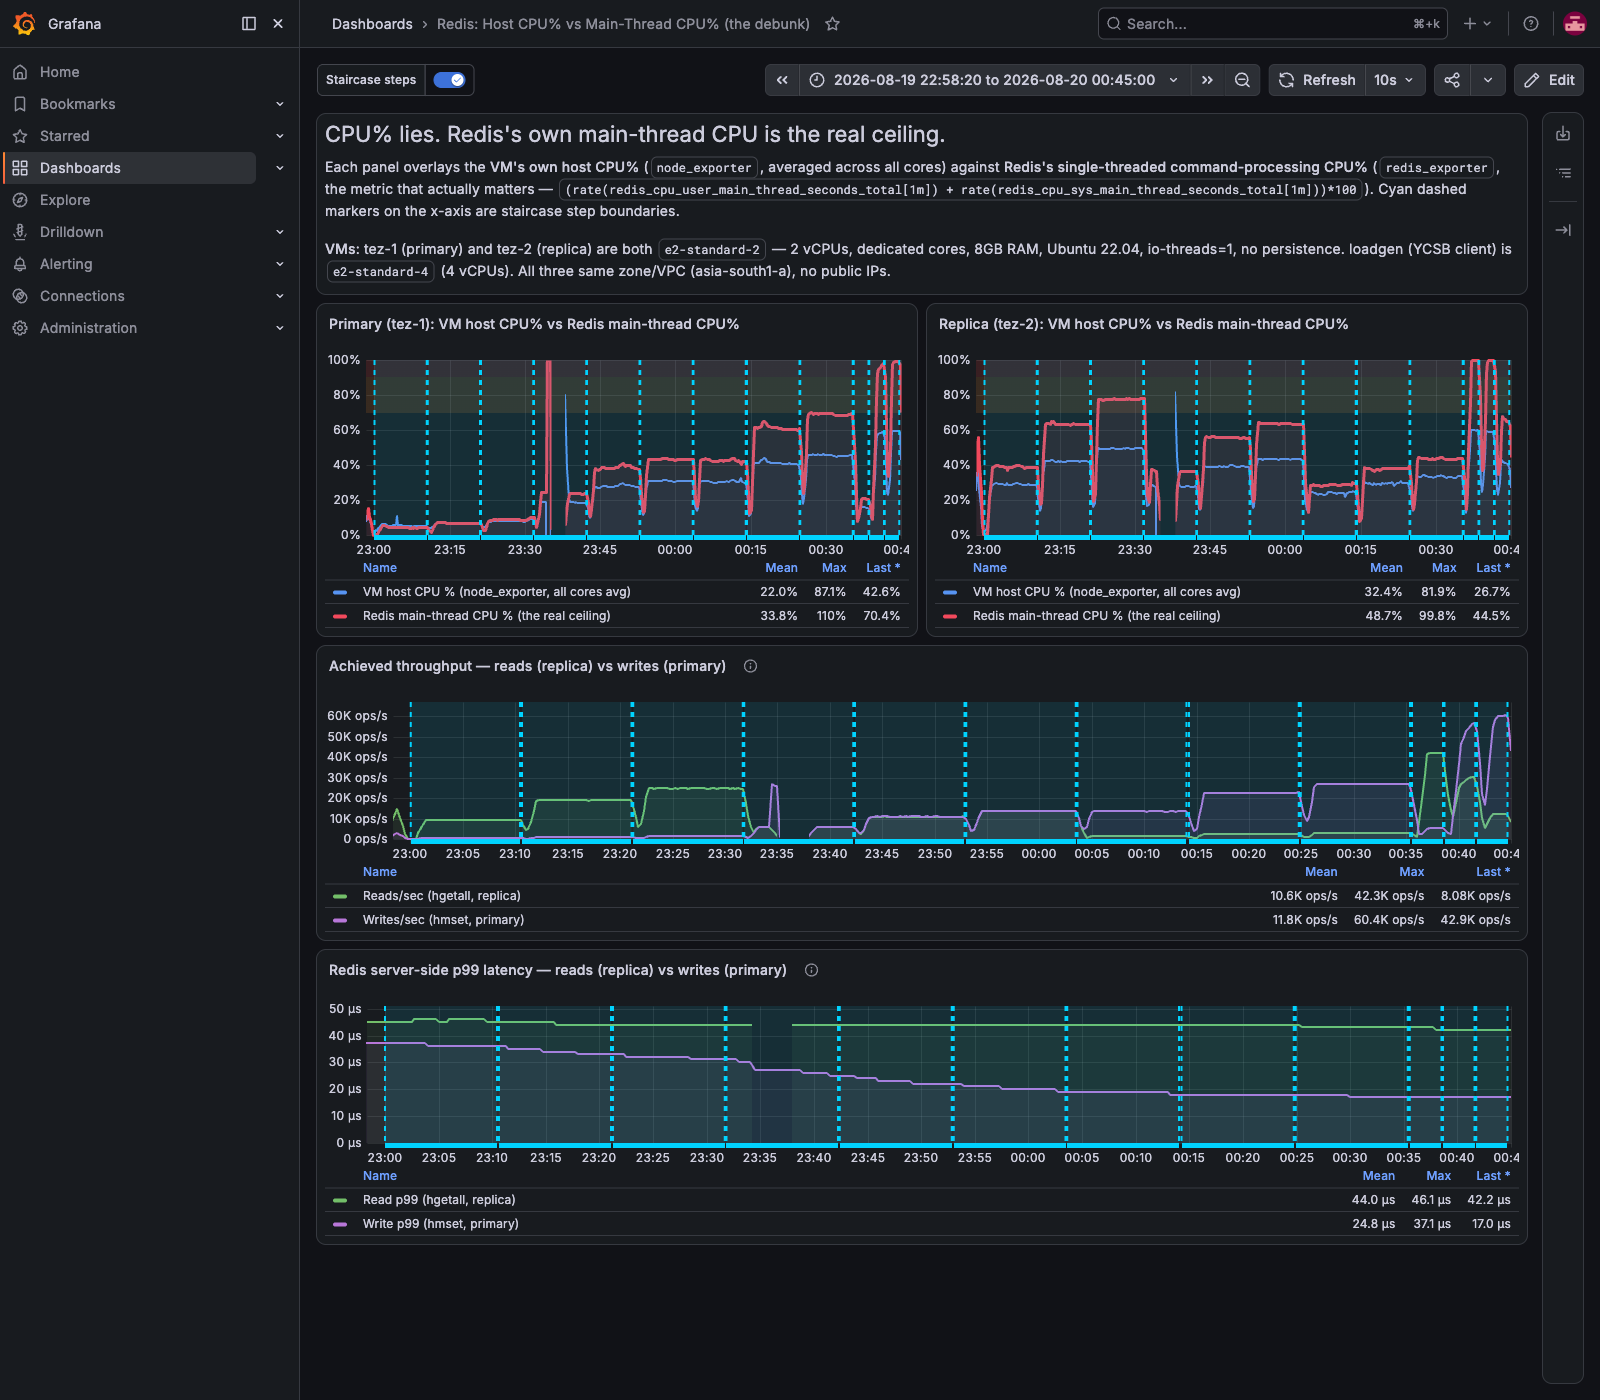
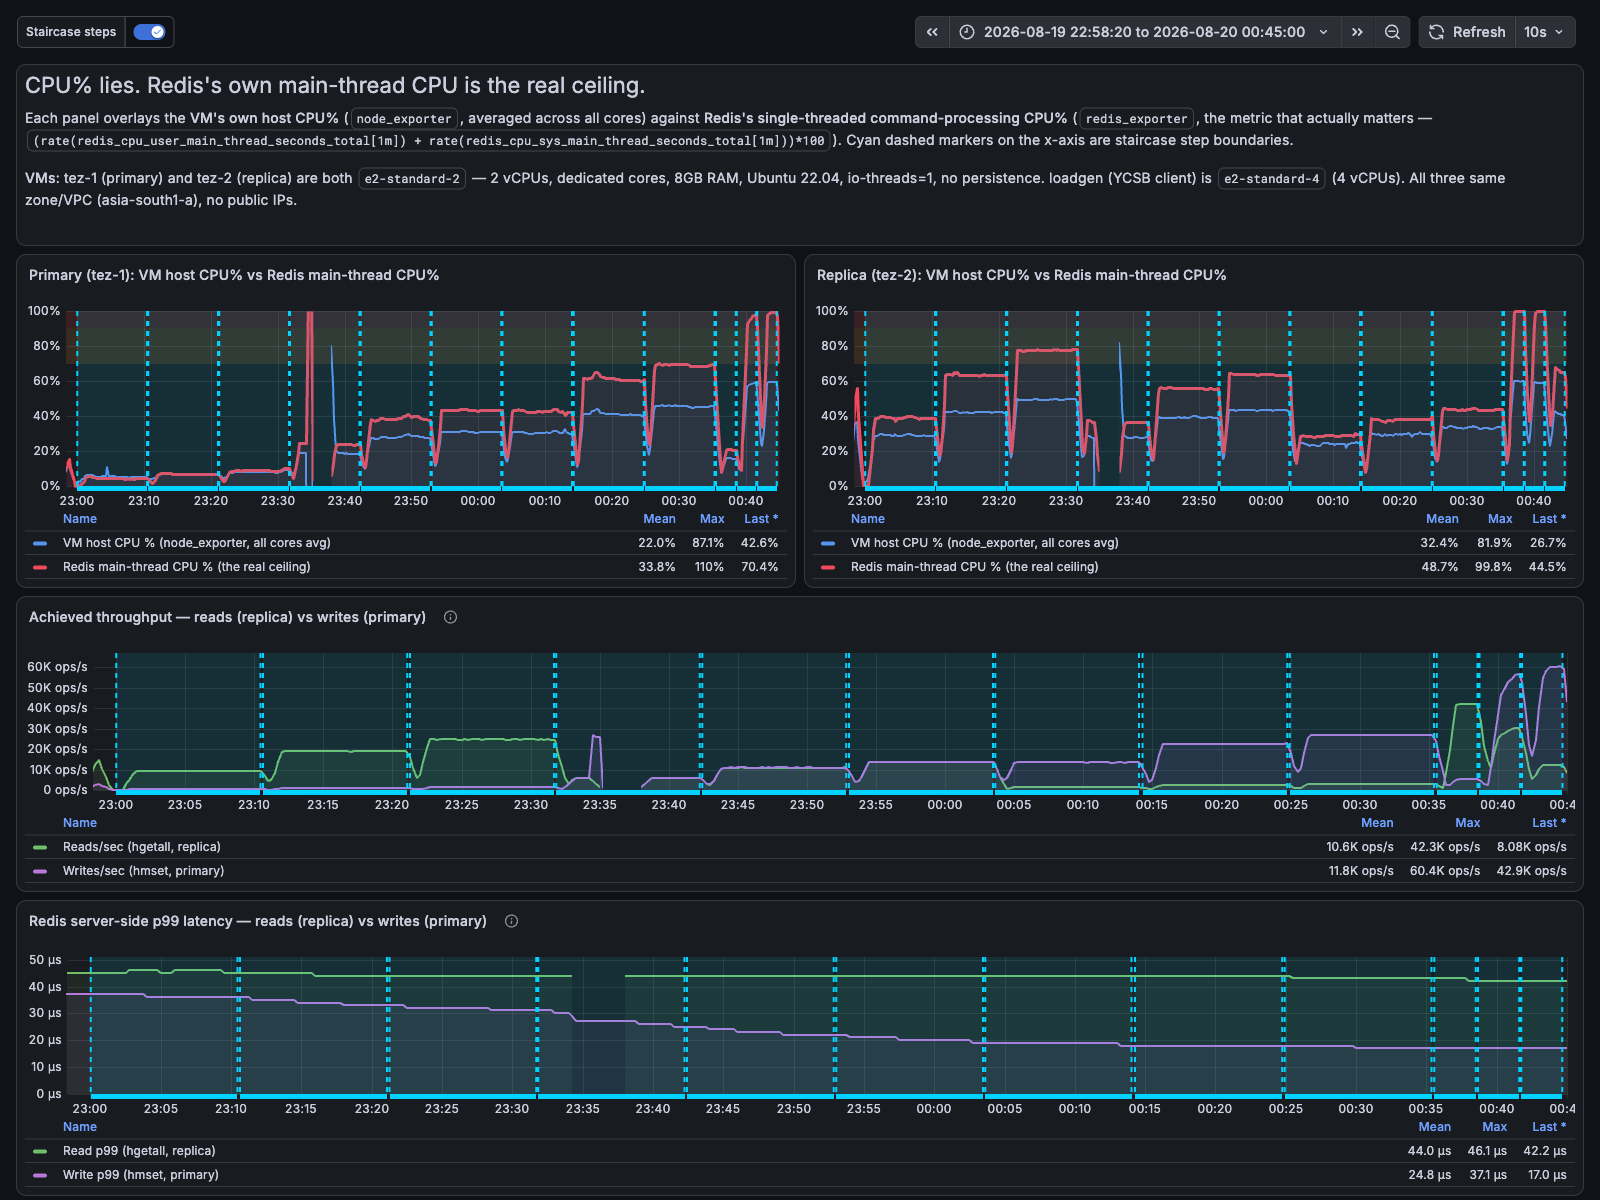
Restructure as one two-part exercise: standalone, then primary/replica
Previous version read as phase 1 with phase 2 findings appended below.
Restructured so both are framed as one planned exercise from the intro
onward: "Part 1: proving it on a standalone instance" and "Part 2: does
a real primary/replica pair change the story?", each with its own
setup/workload description, mirroring the density of the other. The
final scale-up/scale-out answer now synthesizes guidance from both
parts instead of treating the replica caveat as an afterthought.

Also: retook the dashboard screenshot in kiosk mode (was showing an
unnecessary sidebar) and added the client-vs-server latency comparison
as its own dark-themed chart (was missing from the post entirely,
previously only existed in the notes repo).

diff --git a/apps/blog/site/posts/10-redis-capacity-planning/redis-capacity-planning.md b/apps/blog/site/posts/10-redis-capacity-planning/redis-capacity-planning.md
@@ -5,7 +5,7 @@ title: >
 seo_title: Redis Capacity Planning - Why CPU% Lies and When to Actually Scale | Redis Performance Guide
 slug: redis-capacity-planning
 description: >
-  A production support question — "our self-managed Redis was at 50% CPU on a 4-core box, but latencies were already climbing, how do we know when to scale?" — turned into a real benchmark investigation. Here's the metric that actually matters, the thresholds to alert on, and when to scale up vs. scale out.
+  A production support question — "our self-managed Redis was at 50% CPU on a 4-core box, but latencies were already climbing, how do we know when to scale?" — turned into a real benchmark investigation, on both a standalone instance and a real primary/replica pair. Here's the metric that actually matters, the thresholds to alert on, and when to scale up vs. scale out.
 category: productivity
 tags: [redis, capacity-planning, performance, devops, sre, monitoring, prometheus, engineering, software-engineering, databases]
 site: blogsite
@@ -25,8 +25,12 @@ me: **how do you actually know, ahead of time, when a Redis instance
 needs to scale — and whether "scale" means a bigger box or more of
 them?**
 
-I didn't have a confident answer. So I built a Redis instance, hammered
-it with real traffic until it genuinely broke, and found out.
+I didn't have a confident answer. So I built a benchmark rig and hammered
+it with real traffic until it genuinely broke — twice, deliberately.
+First a standalone instance, to isolate the core mechanism without extra
+variables. Then a real primary/replica pair, because that's how almost
+everyone actually runs Redis in production, and I wanted to know whether
+the same numbers still hold once a replica is in the picture.
 
 ## The 50% CPU number was never the right number
 
@@ -49,9 +53,10 @@ processes your commands is out of room.**
 This is the debunk: **CPU% on the host is the wrong metric for Redis
 capacity, full stop.** You need CPU as a fraction of *one core*,
 specifically the core Redis's command loop runs on. Everything else in
-this post is what happens once you start watching the right number.
+this post is what happens once you start watching the right number — on
+a standalone instance first, then on a primary/replica pair.
 
-## Proving it, not just asserting it
+## Part 1: proving it on a standalone instance
 
 I didn't want to write "trust me, watch main-thread CPU" without
 actually watching it happen. So I built a small benchmark rig — a
@@ -122,9 +127,64 @@ read-heavy, missing the warning threshold is a much bigger deal than if
 it's write-heavy — worth knowing which kind of traffic you're actually
 running before you decide how much margin to leave yourself.
 
+## Part 2: does a real primary/replica pair change the story?
+
+A standalone instance is the clean way to prove a mechanism, but it's
+not how most people actually run Redis — there's usually a primary
+taking writes and one or more replicas serving reads, so the primary
+stays free. So I rebuilt the rig as a real primary/replica pair (same
+hardware class as Part 1, dedicated 2-vCPU cores on both sides — a
+shared-core instance size caused enough host-placement noise on its own
+to be a confound, worth bumping past before trusting any of the numbers
+below) and ran the same three traffic shapes again, this time with reads
+routed to the replica and writes to the primary — the actual read/write
+split most people configure — each step held for ten minutes for
+stable readings.
+
+### The finding: a replica's CPU isn't just its own read traffic
+
+A replica's main-thread CPU is doing two jobs at once — serving the
+reads you send it, *and* continuously applying the stream of writes
+replicated from the primary — and the second job doesn't show up
+anywhere in your read-traffic numbers. Using the read-heavy staircase to
+work out roughly how much CPU a given read volume alone should cost, the
+write-dominant staircase tells a different story:
+
+| Replica's own read load | CPU predicted from reads alone | CPU actually observed | Writes being replicated to it |
+|---|---|---|---|
+| 1,500 reads/sec | ~6.5% | **40.5%** | 13,500/sec |
+| 2,500 reads/sec | ~11% | **38.9%** | 22,500/sec |
+| 3,000 reads/sec | ~13% | **45.5%** | 27,000/sec |
+
+The replica's CPU sits **~30 percentage points above** what its own read
+traffic would predict, every time — and it tracks the volume of writes
+being replicated to it, not the reads it's actually serving. Here's the
+full picture, host CPU% against Redis's own main-thread CPU% for both
+sides, plus achieved throughput and server-side latency, across the
+whole staircase:
+
+![Grafana dashboard comparing VM host CPU% against Redis main-thread CPU% for both the primary and replica, alongside achieved read/write throughput and server-side latency, across a full staircase test](./images/06-replica-cpu-debunk.png)
+
+### Overload and latency: the same two findings, more pronounced
+
+Pushed to 4x overload, the split topology behaved exactly like Part 1 —
+**no failures**, just queueing, on both the primary and the replica.
+And the latency trap was, if anything, worse: Redis's own server-side
+p99 for reads stayed inside **42-46 microseconds across the entire
+staircase, including 4x overload** — under 10% variation start to
+finish — while what the client actually experienced told a completely
+different story:
+
+![Client-observed p99 latency climbing from 663 microseconds to over 8,000 microseconds under overload, while Redis's own server-side p99 latency stays flat between 17 and 46 microseconds throughout — both plotted on a log scale for reads and writes separately](./images/07-client-vs-server-latency.png)
+
+Client-observed p99 for reads went from 663µs at the lightest step to
+**8,503µs under 4x overload** — a 13x increase that Redis's own metrics
+never showed even a hint of.
+
 ## So: when do you scale up, and when do you scale out?
 
-This is the part that actually answers the original question.
+This is the part that actually answers the original question — for
+both a standalone instance and a primary/replica pair.
 
 **Watch this metric:**
 ```
@@ -132,8 +192,17 @@ rate(redis_cpu_user_main_thread_seconds_total[1m])
   + rate(redis_cpu_sys_main_thread_seconds_total[1m])
 ```
 — a fraction of *one* core, sourced from `redis_exporter`. Alert at
-**70%** (start planning) and **90%** (act now). Not host CPU%. Not
-Redis's own latency numbers.
+**70%** (start planning) and **90%** (act now) on a standalone instance.
+Not host CPU%. Not Redis's own latency numbers.
+
+**If you're running a primary/replica pair, don't reuse those same
+thresholds on the replica.** Watch primary and replica CPU as two
+separate series, and watch the primary's write rate alongside replica
+CPU — a replica CPU spike with flat read traffic means the write rate
+went up, not the read rate. And when sizing read replicas for capacity,
+budget for the replication-apply tax, not just the read QPS you expect
+to send them — a replica never gives you a full standalone instance's
+worth of read headroom.
 
 **When the alert fires, don't reach for a bigger box by reflex.** Since
 the bottleneck is one thread, adding vCPUs to the same instance does
@@ -146,7 +215,8 @@ threading (which offloads network handling, not command execution).
 The real fix, almost always, is **scaling out**:
 - **Read-heavy traffic → add read replicas.** Reads are the expensive
   operation; offloading them frees the primary's one core to focus on
-  writes.
+  writes — just budget for the replication-apply tax above, not the raw
+  read QPS alone.
 - **Write-heavy or mixed traffic → shard (Redis Cluster).** Replicas
   don't relieve write load; splitting the keyspace across multiple
   single-core shards does.
@@ -160,33 +230,10 @@ That's the answer I wish I'd had in that support thread: the CPU number
 everyone was staring at wasn't lying about the box — it was answering a
 question nobody was actually asking.
 
-## One more wrinkle: a replica's CPU isn't just its own read traffic
-
-Most real Redis deployments aren't a single instance — they're a primary
-with one or more replicas, reads split off so the primary can focus on
-writes. So I ran the whole staircase again against a real primary/replica
-pair to check: does the same CPU number mean the same thing on a replica?
-
-No. A replica's main-thread CPU is doing two jobs at once — serving the
-reads you send it, *and* continuously applying the stream of writes
-replicated from the primary — and the second job doesn't show up anywhere
-in your read traffic numbers. On a write-heavy staircase, the replica's
-CPU sat roughly **30 percentage points above** what its own (small) read
-volume alone would predict, tracking the primary's write rate instead:
-
-![Grafana dashboard comparing VM host CPU% against Redis main-thread CPU% for both the primary and replica, alongside achieved read/write throughput and server-side latency, across a full staircase test](./images/06-replica-cpu-debunk.png)
-
-Practical takeaway: **don't reuse the same 70%/90% thresholds on a
-replica.** Watch primary and replica CPU as two separate series, and watch
-the primary's write rate alongside replica CPU — a replica CPU spike with
-flat read traffic means the write rate went up, not the read rate. And
-when sizing read replicas for capacity, budget for the replication-apply
-tax, not just the read QPS you expect to send them — a replica never gives
-you a full standalone instance's worth of read headroom.
-
 ## Digging deeper
 
-The full write-up — every workload's complete load staircase, the raw
-numbers, the methodology, and the actual Prometheus alerting rules I
-ended up with — is here as a
+The full write-up — every workload's complete load staircase for both
+the standalone instance and the primary/replica pair, the raw numbers,
+the methodology, and the actual Prometheus alerting rules I ended up
+with — is here as a
 [GitHub Gist](https://gist.github.com/jenish-jain/835fefec919d841711d76e1b60f76529).
